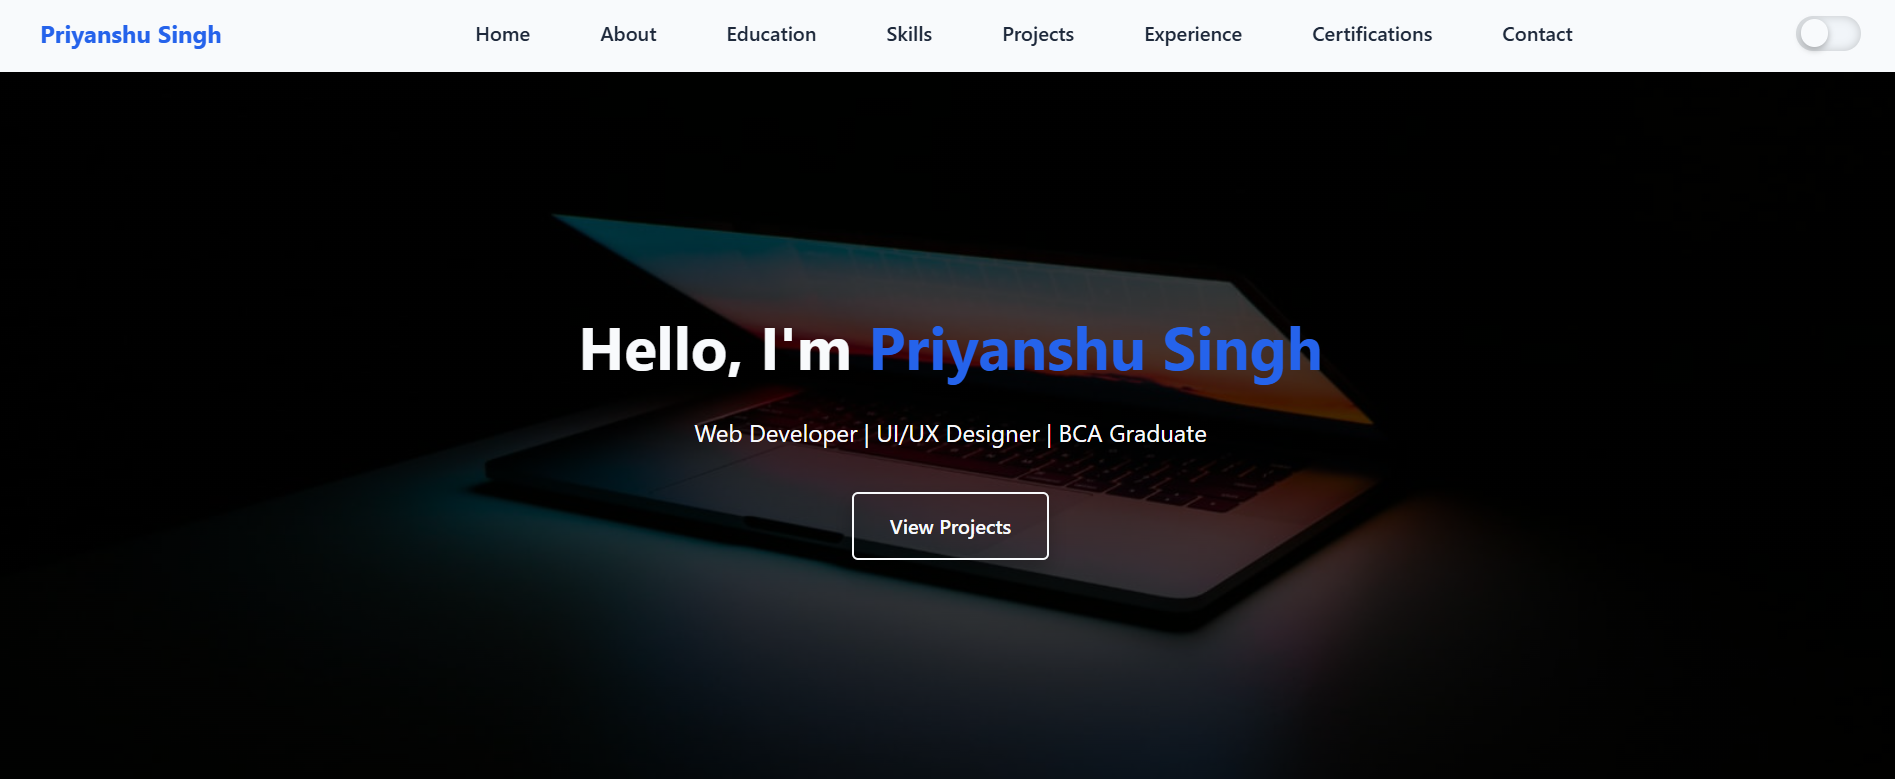
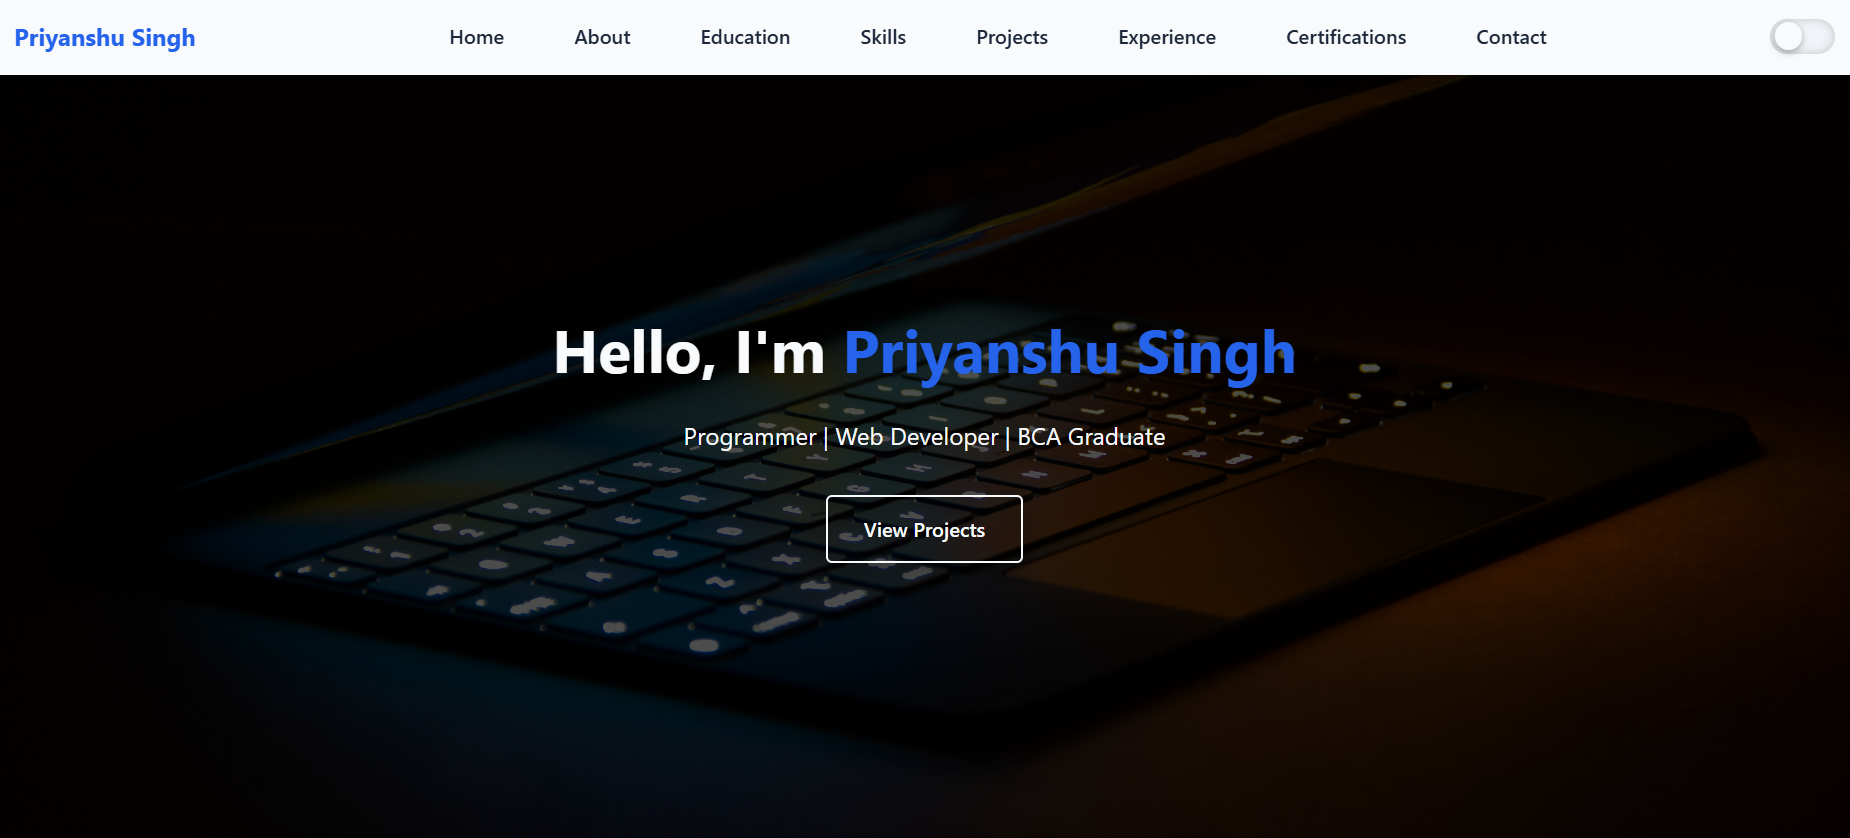
Update: fixed and updated all files

Changed region(s): [[0.0, 0.0308, 1.0, 1.0], [0.1541, 0.6778, 0.1849, 0.7086]]

diff --git a/index.html b/index.html
@@ -41,7 +41,7 @@
 <section id="hero">
   <div class="hero-content">
     <h1>Hello, I'm <span class="typing">Priyanshu Singh</span></h1>
-    <p>Web Developer | Programmer | BCA Graduate</p>
+    <p>Programmer | Web Developer | BCA Graduate</p>
     <div class="hero-btns">
       <a href="#projects" class="btn btn-outline">View Projects</a>
     </div>
